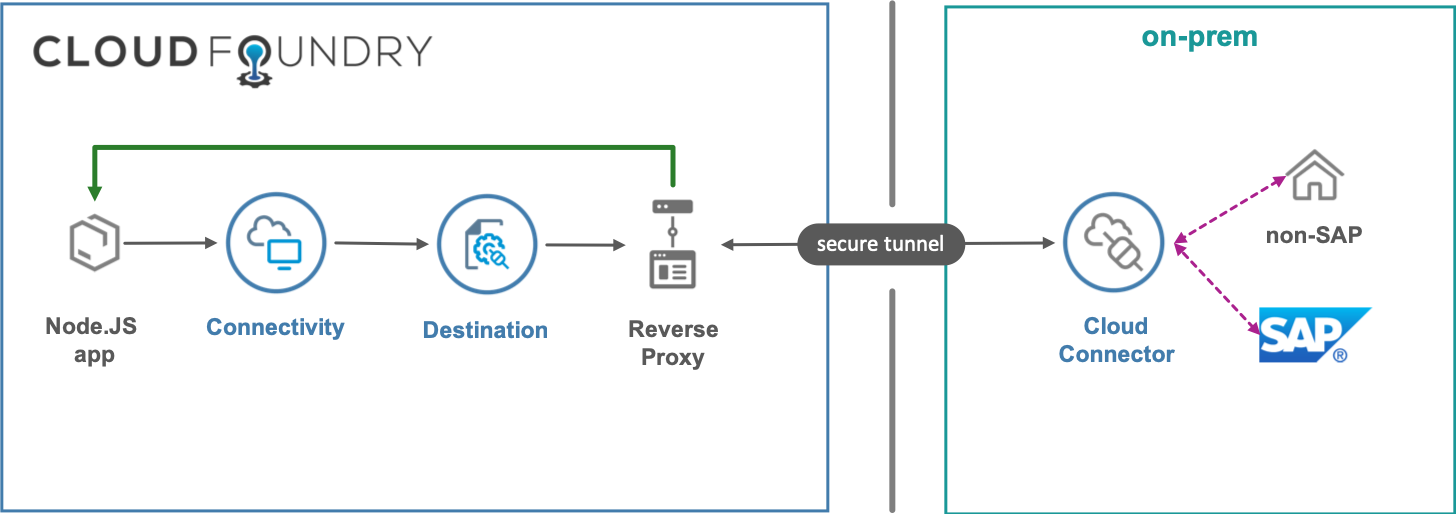
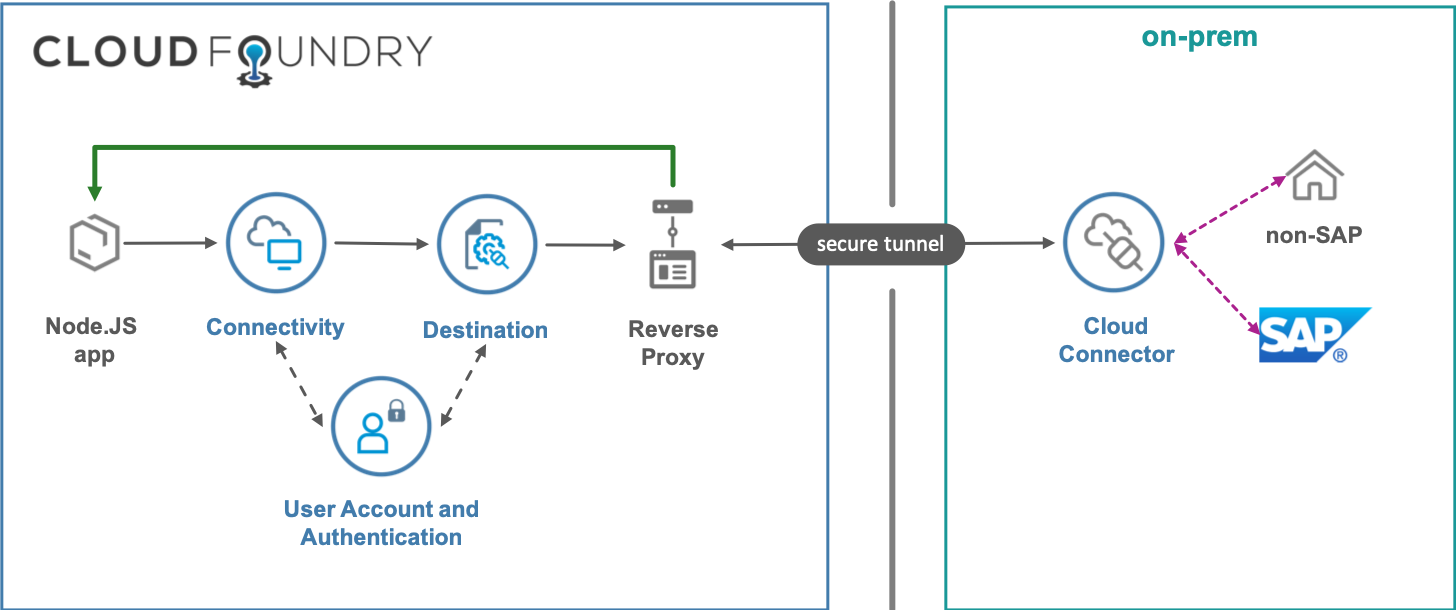
feat: added CORS, app-router, uaa instance

diff --git a/materials/sitWDF-2019/presentation/index.html b/materials/sitWDF-2019/presentation/index.html
@@ -38,9 +38,9 @@
         <section>
             <h2>Scope</h2>
             <ul class="no-bullets">
-                <li>Node.JS</li>
-                <li class="fragment">⚡ <code>@sap/approuter</code></li>
-                <li class="fragment">⚡ WebIDE</li>
+                <li class="center">Node.JS-based API exposing on-prem data</li>
+                <li class="fragment center">⚡ <code>@sap/approuter</code></li>
+                <li class="fragment center">⚡ WebIDE</li>
 
             </ul>
             <aside class="notes">
@@ -52,12 +52,20 @@
 
         <section>
             <h2>Architecture Seen (1)</h2>
-            <p>TODO: app-router based</p>
+            <p><img class="subtleWhite" src="img/arch-seen-router.png" height="350"/></p>
         </section>
 
         <section>
-            <h2>Architecture Seen (2)</h2>
-            <p><img class="subtleWhite" src="img/arch-seen.png" height="350"/></p>
+            <section>
+                <h2>Architecture Seen (2)</h2>
+                <p><img class="subtleWhite" src="img/arch-seen.png" height="350"/></p>
+            </section>
+            <section>
+                <h3>CORS demysitifed</h3>
+                <p class="fragment"><img class="subtleWhite1" src="img/CORS_1-orig.png" height="130"/></p>
+                <p class="fragment"><img class="subtleWhite1" src="img/CORS_2-orig.png" height="130"/></p>
+                <p class="fragment"><img class="subtleWhite1" src="img/CORS_3-orig.png" height="130"/></p>
+            </section>
         </section>
 
         <section>
@@ -68,14 +76,20 @@
         <section>
             <h2>under the hood <img class="m" src="img/arch-here.png" width="40%"/></h2>
             <ol>
-                <li class="fragment">retrieve token from <code>xsuaa</code> instance for using the <code>destination</code> instance</li>
-                
-                <li class="fragment">use token for querying a specific destination from <code>destination</code> instance</li>
+                <li class="fragment">retrieve token from <code>xsuaa</code> instance for using the
+                    <code>destination</code> instance
+                </li>
+
+                <li class="fragment">use token for querying a specific destination from <code>destination</code>
+                    instance
+                </li>
                 <li class="fragment">retrieve token from <code>xsuaa</code> instance for using the reverse proxy (aka
-                    <code>connectivity</code> instance)</li>
+                    <code>connectivity</code> instance)
+                </li>
                 <li class="fragment">use token for querying some <code>uri</code> in the destination</li>
             </ol>
-            <p class="fragment">&rArr; <a href="https://www.npmjs.com/package/sap-cf-destination">sap-cf-destination</a></p>
+            <p class="fragment">&rArr; <a href="https://www.npmjs.com/package/sap-cf-destination">sap-cf-destination</a>
+            </p>
         </section>
         <section>
             <h2>under the hood <img class="m" src="img/arch-here.png" width="40%"/></h2>
@@ -112,7 +126,7 @@ cf ssh -N -T -L 9229:127.0.0.1:9229 &lt;app&gt;
         <section>
             <h2>highlights (excerpt)</h2>
             <h4>POST, <code>201</code> + <code>content-length</code></h4>
-            <p><img class="m" src="img/arch-here.png" /></p>
+            <p><img class="m" src="img/arch-here.png"/></p>
         </section>
         <section>
             <table class="procon">
@@ -126,7 +140,7 @@ cf ssh -N -T -L 9229:127.0.0.1:9229 &lt;app&gt;
                 <tbody>
                 <tr>
                     <td class="fragment" data-fragment-index="10">performance/<br>latency</td>
-                    
+
                     <td class="fragment" data-fragment-index="50">monitoring</td>
                     <td class="fragment" data-fragment-index="100">fragmentation &rarr; maintenance</td>
                 </tr>

diff --git a/materials/sitWDF-2019/presentation/custom.css b/materials/sitWDF-2019/presentation/custom.css
@@ -2,6 +2,9 @@ code {
   color: #dcdcdc;
   background-color: #3f3f3f;
 }
+.center {
+  text-align: center;
+}
 .tint {
   filter: brightness(0.5);
   -webkit-filter: brightness(0.5);
@@ -62,6 +65,13 @@ table.procon thead tr td {
 .reveal section img.subtleWhite {
   margin: 15px 0;
   background: rgba(255, 255, 255, 0.9);
+  border: 1px solid #93a1a1;
+  padding: 0.25em;
+  box-shadow: 0 0 10px rgba(0, 0, 0, 0.15);
+}
+.reveal section img.subtleWhite1 {
+  margin: 15px 0;
+  background: rgba(255, 255, 255, 0.75);
   border: 1px solid #93a1a1;
   padding: 0.25em;
   box-shadow: 0 0 10px rgba(0, 0, 0, 0.15);

diff --git a/materials/sitWDF-2019/presentation/custom.less b/materials/sitWDF-2019/presentation/custom.less
@@ -3,6 +3,10 @@ code {
   background-color: #3f3f3f;
 }
 
+.center {
+  text-align: center;
+}
+
 .tint {
   filter: brightness(0.5);
   -webkit-filter: brightness(0.5);
@@ -89,6 +93,14 @@ table.procon {
   img.subtleWhite {
     margin: 15px 0;
     background: rgba(255, 255, 255, 0.9);
+    border: 1px solid #93a1a1;
+    padding: 0.25em;
+    box-shadow: 0 0 10px rgba(0, 0, 0, 0.15);
+  }
+
+  img.subtleWhite1 {
+    margin: 15px 0;
+    background: rgba(255, 255, 255, 0.75);
     border: 1px solid #93a1a1;
     padding: 0.25em;
     box-shadow: 0 0 10px rgba(0, 0, 0, 0.15);
